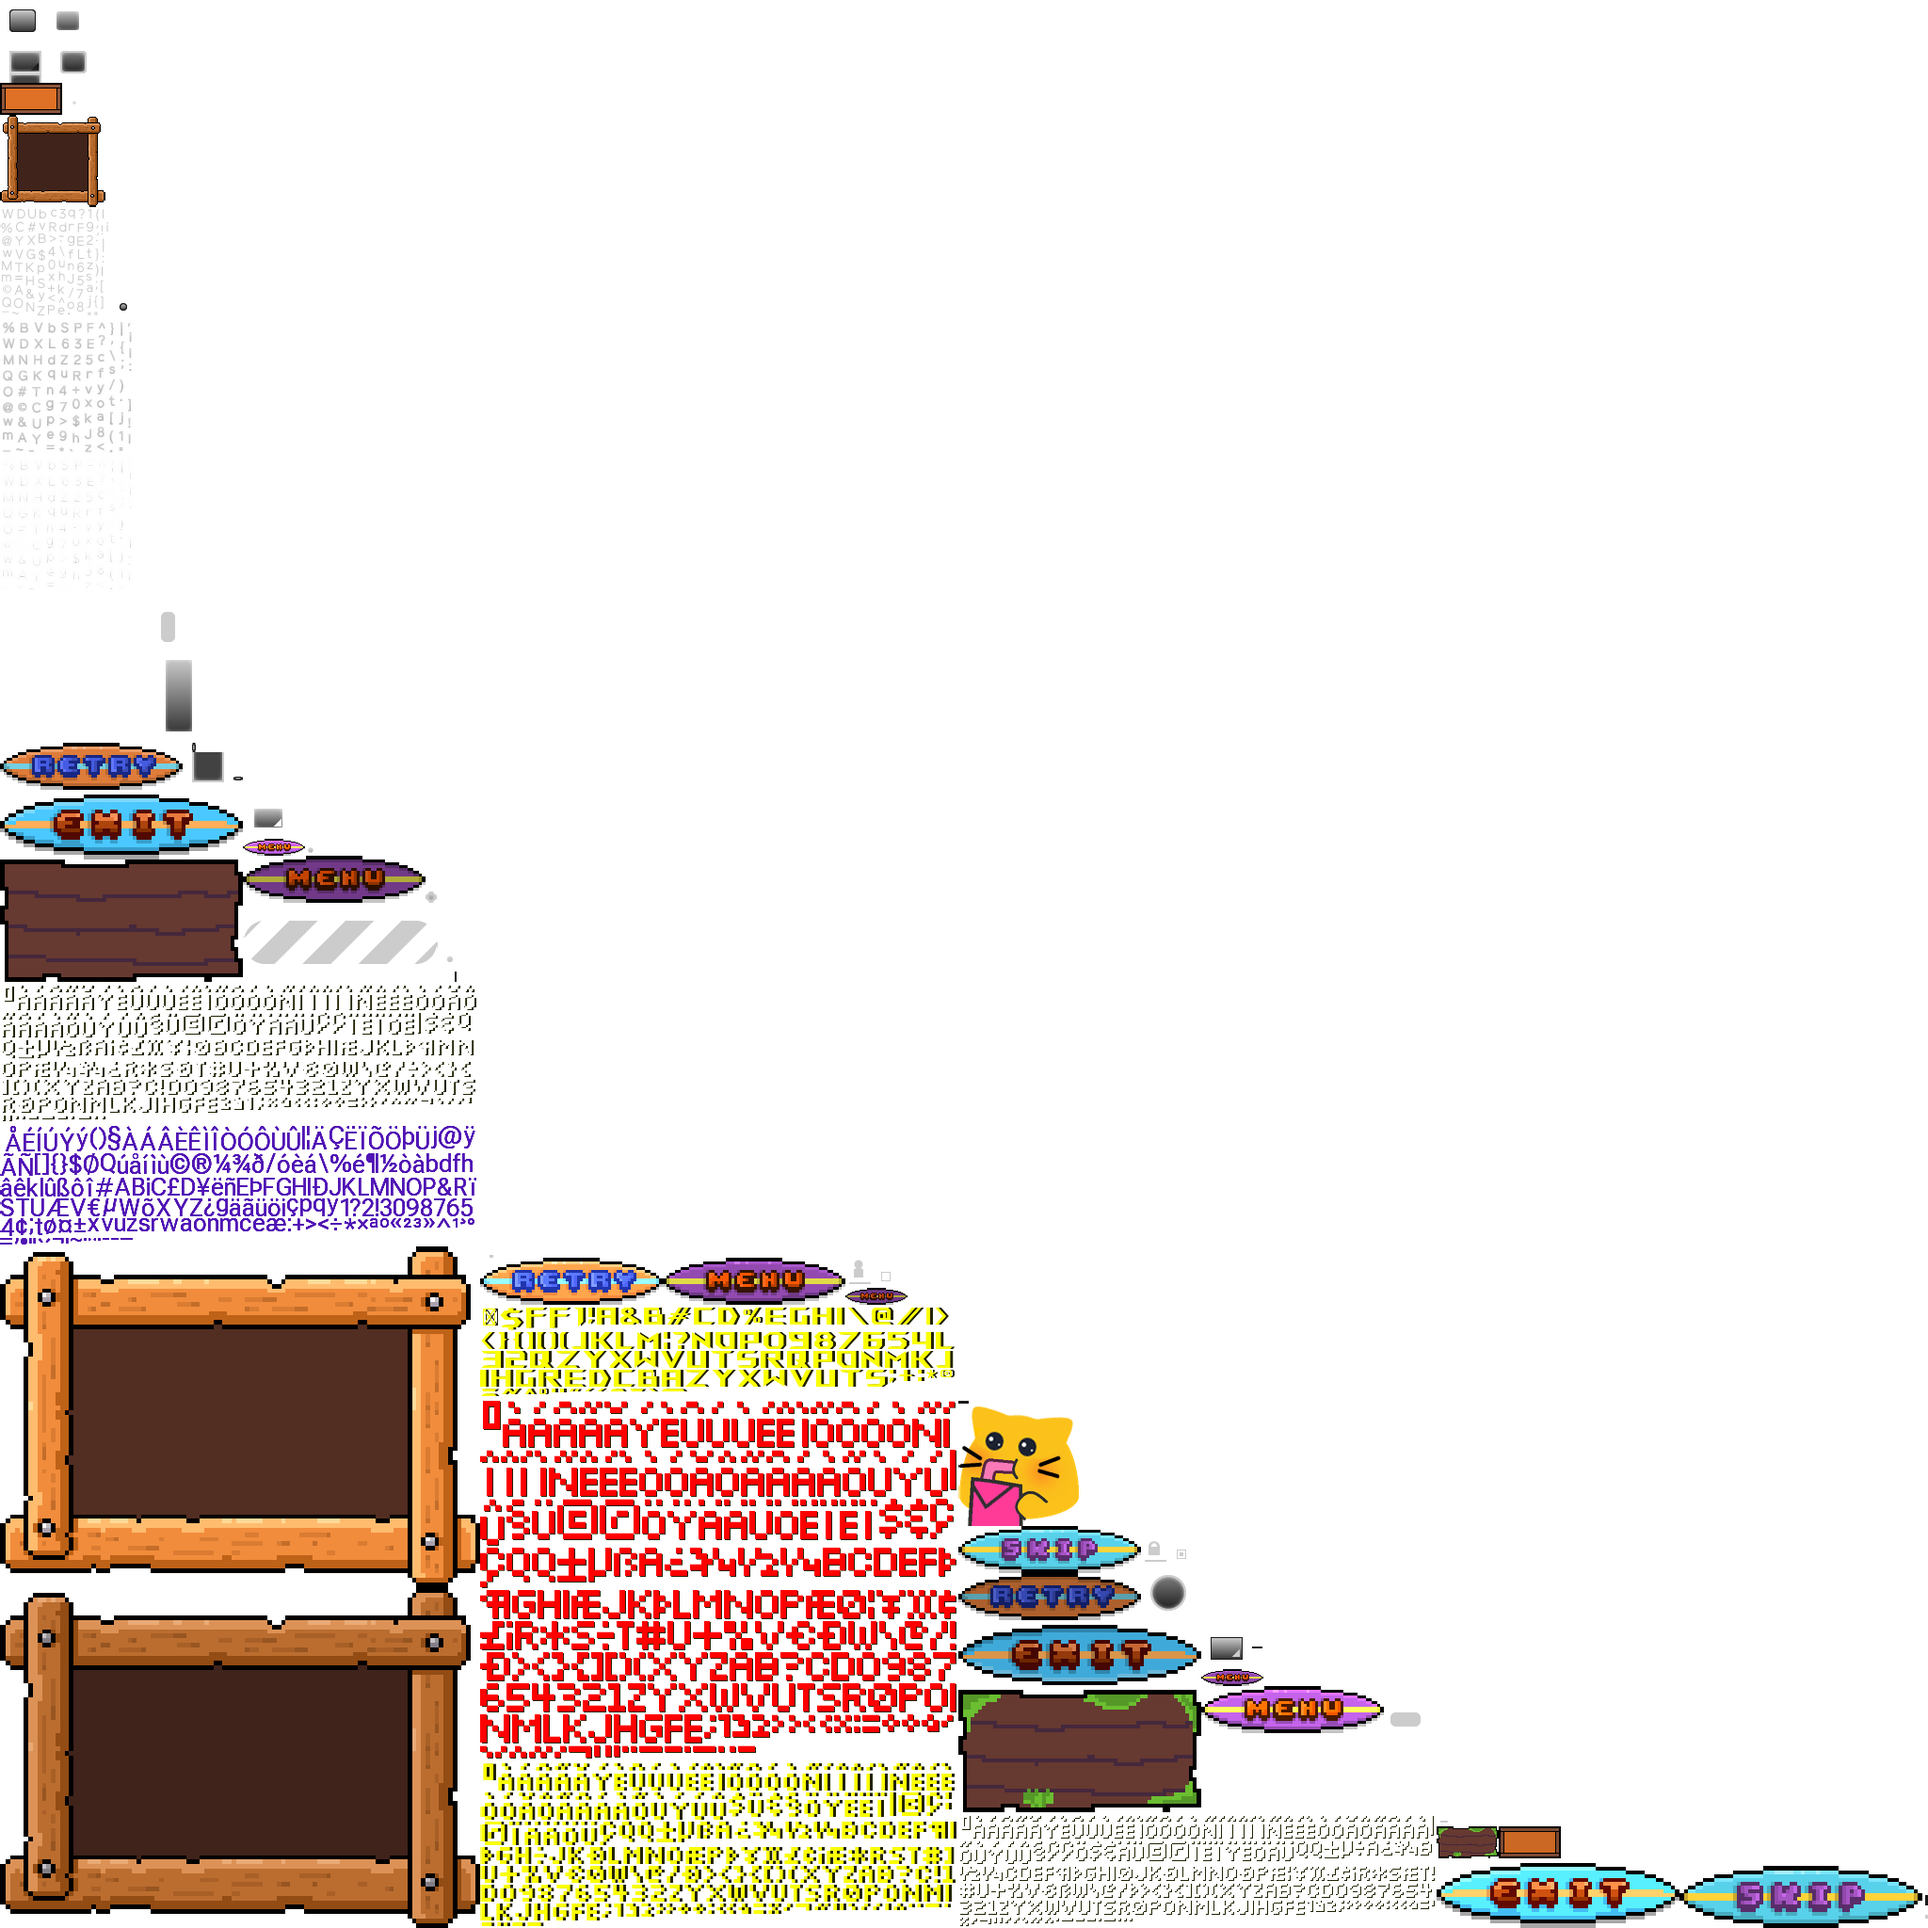
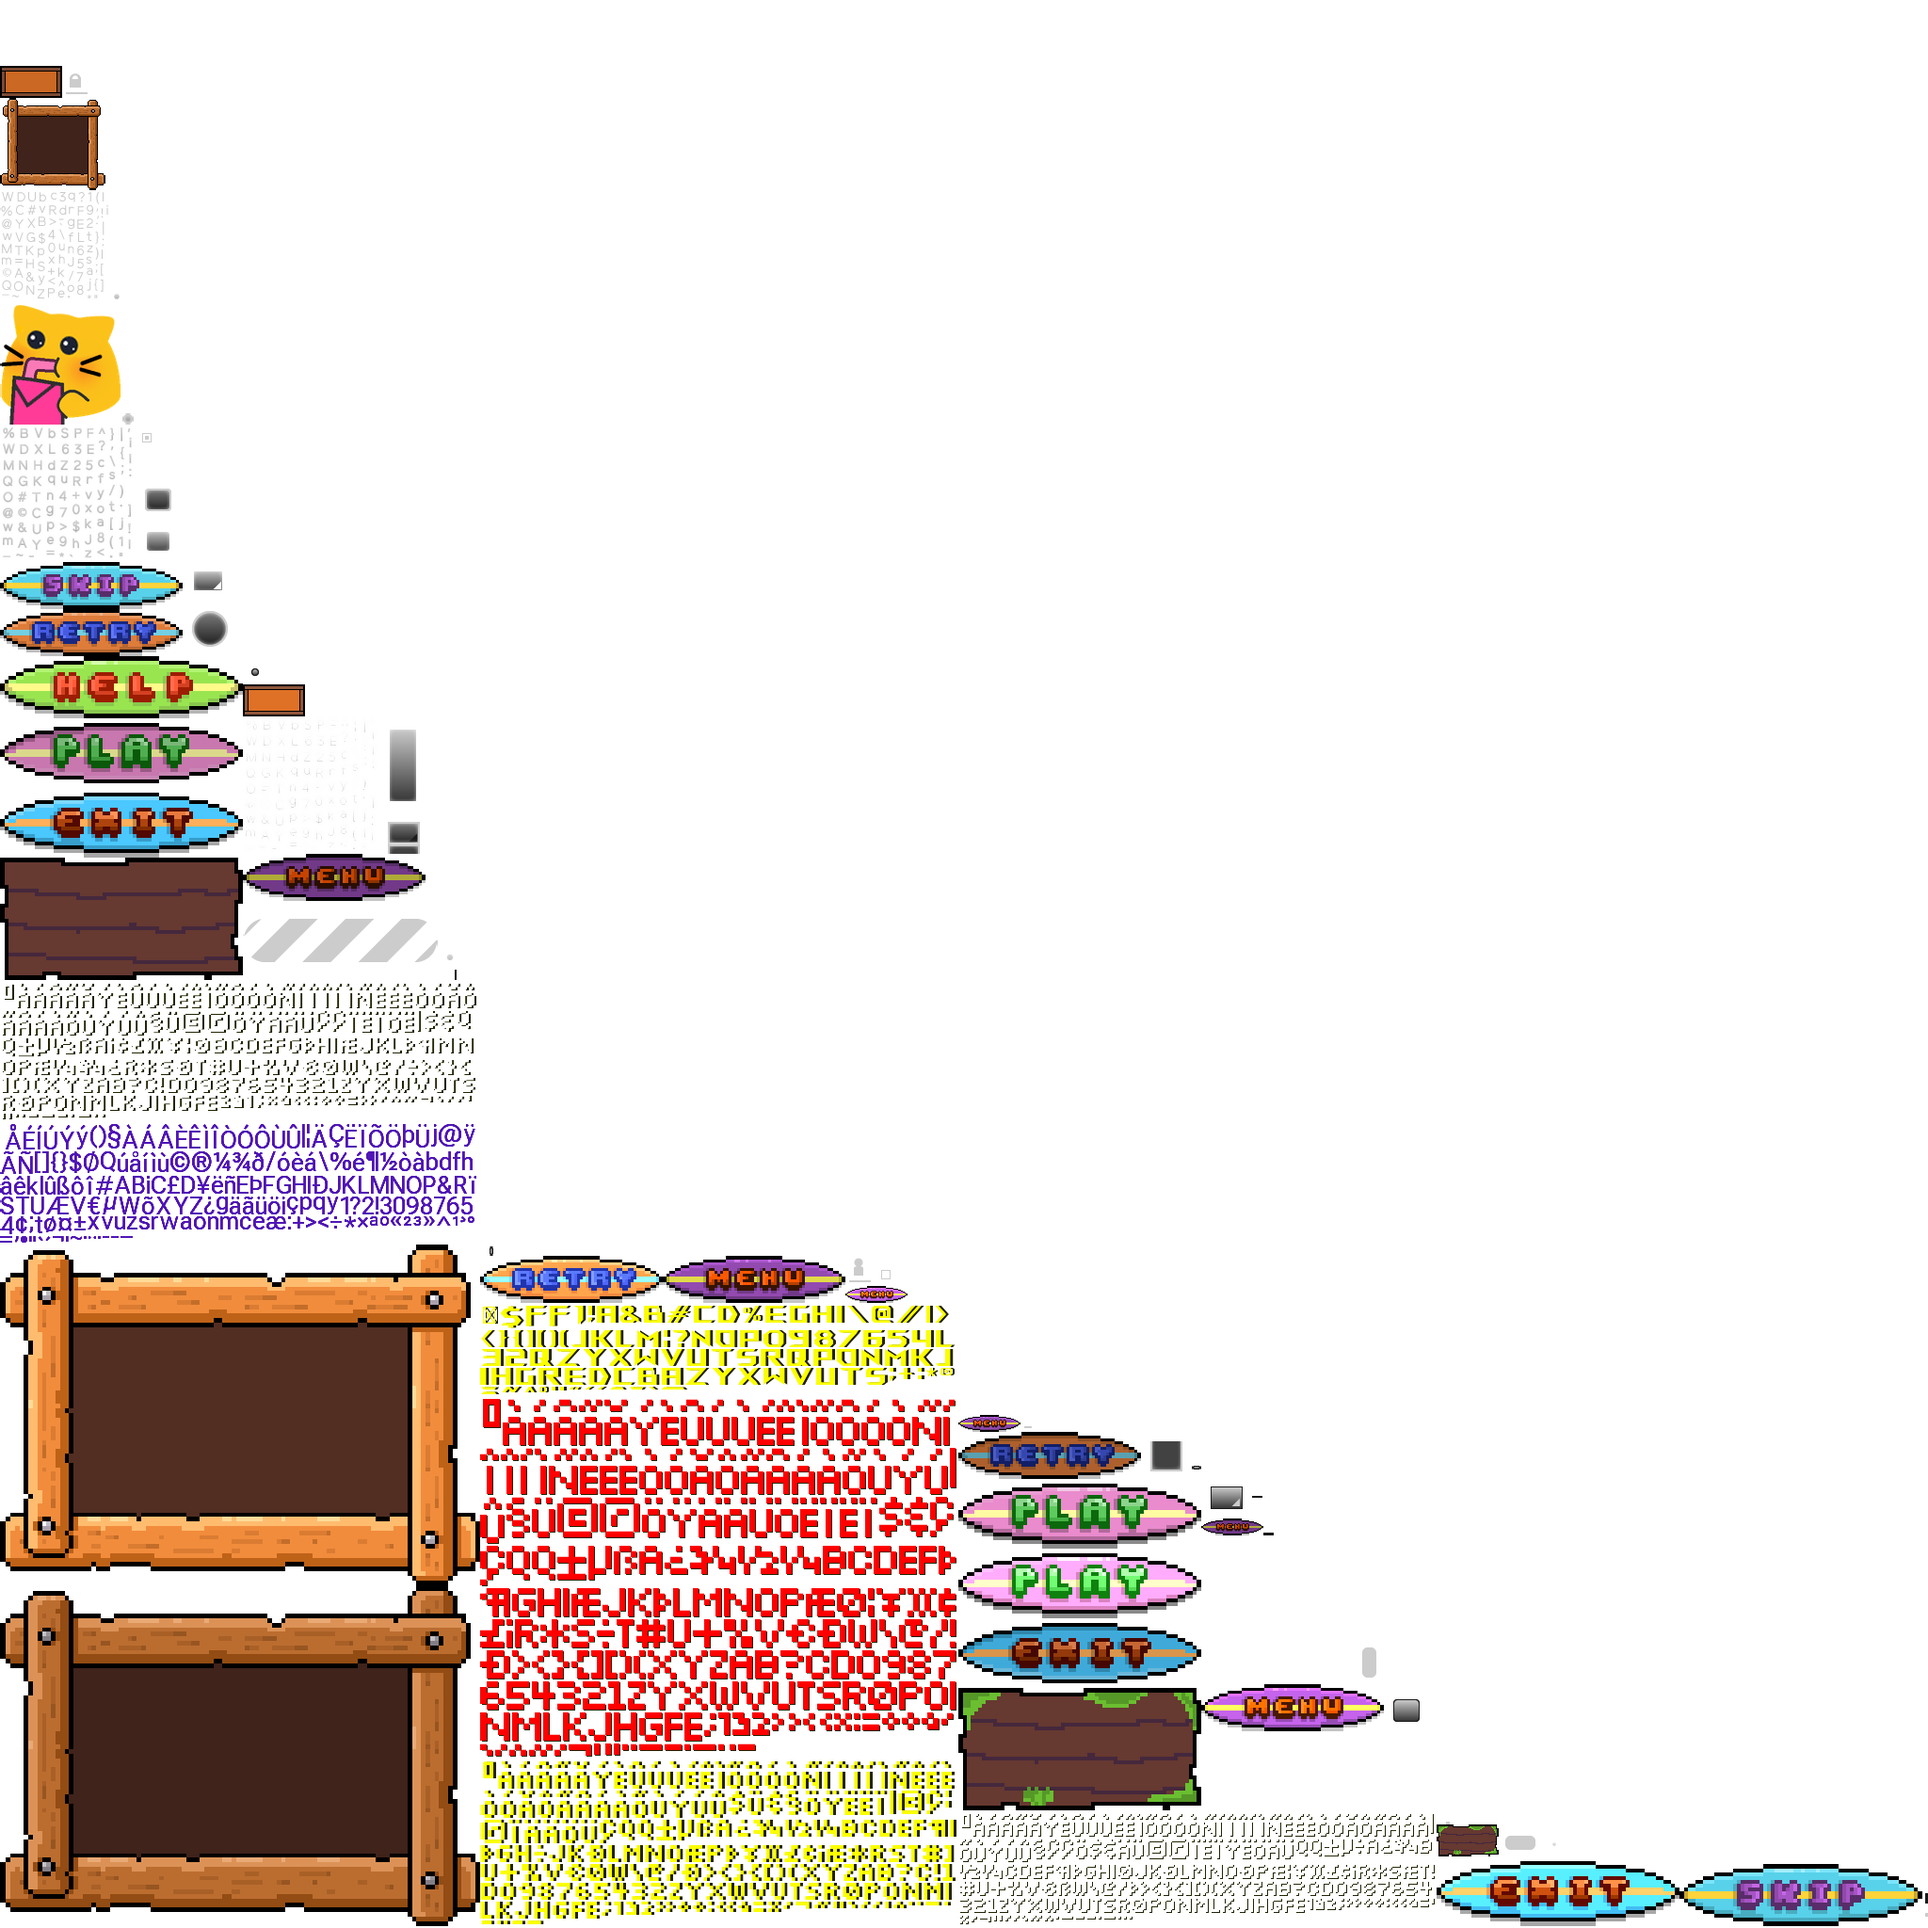
Fixade main menu screen

Changed region(s): [[0.0, 0.0, 1.0, 1.0]]

diff --git a/core/src/main/java/com/beachsurvivors/view/MainMenuScreen.java b/core/src/main/java/com/beachsurvivors/view/MainMenuScreen.java
@@ -10,15 +10,13 @@ import com.badlogic.gdx.graphics.Pixmap;
 import com.badlogic.gdx.graphics.Texture;
 import com.badlogic.gdx.graphics.g2d.SpriteBatch;
 import com.badlogic.gdx.graphics.g2d.TextureRegion;
+import com.badlogic.gdx.scenes.scene2d.Actor;
 import com.badlogic.gdx.scenes.scene2d.Stage;
-import com.badlogic.gdx.scenes.scene2d.ui.Button;
-import com.badlogic.gdx.scenes.scene2d.ui.ImageButton;
-import com.badlogic.gdx.scenes.scene2d.utils.Drawable;
-import com.badlogic.gdx.scenes.scene2d.utils.TextureRegionDrawable;
+import com.badlogic.gdx.scenes.scene2d.ui.*;
+import com.badlogic.gdx.scenes.scene2d.utils.*;
 import com.badlogic.gdx.scenes.scene2d.InputEvent;
 import com.badlogic.gdx.scenes.scene2d.Stage;
 import com.badlogic.gdx.scenes.scene2d.ui.ImageButton;
-import com.badlogic.gdx.scenes.scene2d.utils.ClickListener;
 import com.badlogic.gdx.scenes.scene2d.utils.TextureRegionDrawable;
 import com.badlogic.gdx.utils.Scaling;
 import com.badlogic.gdx.utils.ScreenUtils;
@@ -36,91 +34,78 @@ public class MainMenuScreen implements Screen {
     Texture backgroundTexture;
     Texture logoTexture;
 
-    Texture playButtonTexture;
-    Texture playButtonHoverTexture;
-    Texture playButtonPressedTexture;
-
-    Texture exitButtonTexture;
-    Texture exitButtonHoverTexture;
-    Texture exitButtonPressedTexture;
-
     SpriteBatch spriteBatch;
+    
+    private Skin skin;
 
-    // TODO: Ändra via Skin Composer med knapparna
-    // PLAY-KNAPP
-    private TextureRegionDrawable playDrawable;
-    private TextureRegionDrawable playHoverDrawable;
-    private TextureRegionDrawable playPressedDrawable;
-
+    private Table table;
     private ImageButton playButton;
-    private ImageButton.ImageButtonStyle playButtonStyle;
-
-    // EXIT-KNAPP
-    private TextureRegionDrawable exitDrawable;
-    private TextureRegionDrawable exitHoverDrawable;
-    private TextureRegionDrawable exitPressedDrawable;
-
+    private ImageButton helpButton;
     private ImageButton exitButton;
-    private ImageButton.ImageButtonStyle exitButtonStyle;
 
     ScreenViewport viewport;
+    FitViewport fitViewport;
 
     public MainMenuScreen(Main main) {
         this.main = main;
-
-        backgroundTexture = AssetLoader.get().manager.get("assets/main_menu/menu_background.jpeg");
-        logoTexture = AssetLoader.get().manager.get("assets/main_menu/logo_skiss_1.png");
 
         playSound = AssetLoader.get().manager.get("assets/main_menu/sound/holiday.wav");
         mainTheme = AssetLoader.get().manager.get("assets/sounds/beach.mp3");
         mainTheme.play();
         mainTheme.setVolume(0.5f);
         mainTheme.setLooping(true);
-        // PLAY
-        playButtonTexture = AssetLoader.get().manager.get("assets/main_menu/buttons/play_button_2_scaled.png");
-        playButtonHoverTexture = AssetLoader.get().manager.get("assets/main_menu/buttons/play_button_2_hover_scaled.png");
-        playButtonPressedTexture = AssetLoader.get().manager.get("assets/main_menu/buttons/play_button_2_pressed_scaled.png");
 
-        playDrawable = new TextureRegionDrawable(playButtonTexture);
-        playHoverDrawable = new TextureRegionDrawable(playButtonHoverTexture);
-        playPressedDrawable = new TextureRegionDrawable(playButtonPressedTexture);
+        backgroundTexture = AssetLoader.get().manager.get("assets/main_menu/menu_background.jpeg");
+        Image background = new Image(new TextureRegionDrawable(new TextureRegion(backgroundTexture)));
+        logoTexture = AssetLoader.get().manager.get("assets/main_menu/logo_skiss_1.png");
+        Image logo = new Image(new TextureRegionDrawable(new TextureRegion(logoTexture)));
+        logo.setScaling(Scaling.fit);
 
-        playButtonStyle = new ImageButton.ImageButtonStyle();
-        playButtonStyle.up = playDrawable; // Standard
-        playButtonStyle.over = playHoverDrawable; // Hover
+        skin = AssetLoader.get().manager.get("game_over_screen/deathscreen_skin.json");
 
-        playButton = new ImageButton(playButtonStyle);
+        table = new Table();
+        table.setFillParent(true);
 
-        // EXIT
-        exitButtonTexture = new Texture("main_menu/buttons/exit_button_2_scaled.png");
-        exitButtonHoverTexture = new Texture("main_menu/buttons/exit_button_2_hover_scaled.png");
-        exitButtonPressedTexture = new Texture("main_menu/buttons/exit_button_2_pressed_scaled.png");
+        int width = 400;
+        int height = 120;
 
-        exitDrawable = new TextureRegionDrawable(exitButtonTexture);
-        exitHoverDrawable = new TextureRegionDrawable(exitButtonHoverTexture);
-        exitPressedDrawable = new TextureRegionDrawable(exitButtonPressedTexture);
+        playButton = new ImageButton(skin, "play");
+        playButton.getImageCell().size(width,height);
 
-        exitButtonStyle = new ImageButton.ImageButtonStyle();
-        exitButtonStyle.up = exitDrawable;
-        exitButtonStyle.over = exitHoverDrawable;
+        helpButton = new ImageButton(skin, "help");
+        helpButton.getImageCell().size(width,height);
 
-        exitButton = new ImageButton(exitButtonStyle);
+        exitButton = new ImageButton(skin, "exit");
+        exitButton.getImageCell().size(width,height);
 
         viewport = new ScreenViewport();
+        fitViewport = new FitViewport(main.getGameScreen().getScreenWidth(), main.getGameScreen().getScreenHeight());
 
         spriteBatch = new SpriteBatch();
-        stage = new Stage(viewport);
-        stage.addActor(playButton); // Lägg in knapparna i en array istället?
-        stage.addActor(exitButton);
+        stage = new Stage(fitViewport);
+
+        int bottomPad = 20;
+        table.add(logo).padBottom(60).padTop(100).height(400).width(800).row();
+        table.add(playButton).padBottom(bottomPad).row();
+        table.add(helpButton).padBottom(bottomPad).row();
+        table.add(exitButton).padBottom(bottomPad).row();
+
+        Stack stack = new Stack();
+        stack.setSize(1200,972);
+        stack.add(background);
+
+        stack.add(table);
+        stack.setPosition(0,0);
+        stack.setFillParent(true);
+        stage.addActor(stack);
 
         // EVENT LISTENERS
-        onPlayButtonPressed();
-        onExitButtonPressed();
+        addListeners();
     }
 
     @Override
     public void resize(int width, int height) {
-        viewport.update(width, height, true);
+        fitViewport.update(width, height, true);
     }
 
 
@@ -140,30 +125,7 @@ public class MainMenuScreen implements Screen {
     }
 
     public void draw(float delta) {
-        ScreenUtils.clear(Color.BLACK); // Good practice to always clear the screen every frame
-        viewport.apply();
-        spriteBatch.setProjectionMatrix(viewport.getCamera().combined);
-        spriteBatch.begin();
-        // Add lines to draw here
-
-        float worldWidth = viewport.getWorldWidth();
-        float worldHeight = viewport.getWorldHeight();
-        float logoWidth = logoTexture.getWidth()*4;
-        float logoHeight = logoTexture.getHeight()*4;
-
-        spriteBatch.draw(backgroundTexture, 0, 0, worldWidth, worldHeight);
-
-        stage.act(Gdx.graphics.getDeltaTime());
-        stage.draw();
-
-        spriteBatch.draw(logoTexture, ((worldWidth/2)-(logoWidth/2)), (worldHeight/2), logoWidth, logoHeight); // TODO: ändra så att värdena inte är hårdkodade
-        spriteBatch.end();
-
         stage.act(delta);
-
-        playButton.setPosition((worldWidth/2)-(playButton.getWidth()/2), worldHeight/3);
-        exitButton.setPosition((worldWidth/2)-(exitButton.getWidth()/2), worldHeight/6);
-
         stage.draw();
     }
     @Override
@@ -181,38 +143,28 @@ public class MainMenuScreen implements Screen {
 
     }
 
-    public void onPlayButtonPressed() {
-        playButton.addListener(new ClickListener() {
-            @Override
-            public boolean touchDown(InputEvent event, float x, float y, int pointer, int button) {
-                playButtonStyle.over = playPressedDrawable;
-                return true; // Viktigt! returnera true så att touchUp() aktiveras
-            }
+    public void addListeners() {
 
+        playButton.addListener(new ChangeListener() {
             @Override
-            public void touchUp(InputEvent event, float x, float y, int pointer, int button) {
-                playButtonStyle.up = playDrawable;
+            public void changed(ChangeEvent changeEvent, Actor actor) {
                 mainTheme.stop();
-               // playSound.play(0.1f);
-
                 startGameMusic();
                 main.switchScreen();
             }
         });
-    }
 
-    public void onExitButtonPressed() {
-        exitButton.addListener(new ClickListener() {
+        helpButton.addListener(new ChangeListener() {
             @Override
-            public boolean touchDown(InputEvent event, float x, float y, int pointer, int button) {
-                exitButtonStyle.over = exitPressedDrawable;
-                return true; // Viktigt! returnera true så att touchUp() aktiveras
+            public void changed(ChangeEvent changeEvent, Actor actor) {
+                mainTheme.stop();
+                main.goToHelpScreen();
             }
+        });
 
+        exitButton.addListener(new ChangeListener() {
             @Override
-            public void touchUp(InputEvent event, float x, float y, int pointer, int button) {
-                exitButtonStyle.up = exitDrawable;
-                playSound.play(1f);
+            public void changed(ChangeEvent changeEvent, Actor actor) {
                 Gdx.app.exit();
             }
         });

diff --git a/core/src/main/java/com/beachsurvivors/view/Main.java b/core/src/main/java/com/beachsurvivors/view/Main.java
@@ -12,13 +12,13 @@ public class Main extends Game {
 
     @Override
     public void create() {
+        gameScreen = new GameScreen(this);
         menuScreen = new MainMenuScreen(this);
         setScreen(loadingScreen);
         setScreen(menuScreen);
     }
 
     public void startGame() {
-        gameScreen = new GameScreen(this);
         setScreen(gameScreen);
     }
 
@@ -78,5 +78,8 @@ public class Main extends Game {
 
     public void setSoundOn(boolean isSoundOn) {
         this.isSoundOn = isSoundOn;
+    }
+    public GameScreen getGameScreen() {
+        return gameScreen;
     }
 }

diff --git a/core/src/main/java/com/beachsurvivors/view/DeathScreen.java b/core/src/main/java/com/beachsurvivors/view/DeathScreen.java
@@ -66,12 +66,11 @@ public class DeathScreen implements Screen {
         Stack stack = new Stack();
         stack.setSize(1200,972);
         stack.setPosition(gameScreen.getScreenWidth()/2f-stack.getWidth()/2,
-            gameScreen.getScreenHeight()/2f-stack.getHeight()/2 );
+            gameScreen.getScreenHeight()/2f-stack.getHeight()/2);
         stack.add(background);
         stack.add(rightTable);
         stack.add(leftTable);
         stage.addActor(stack);
-
 
         createActorsLeftTable();
         createActorsRightTable();

diff --git a/core/src/main/java/com/beachsurvivors/model/abilities/ChainLightning.java b/core/src/main/java/com/beachsurvivors/model/abilities/ChainLightning.java
@@ -135,6 +135,10 @@ public class ChainLightning extends Ability {
         sound.setVolume(soundId, 0.3f);
     }
 
+    public void increaseMaxJumps(int jumpIncrease) {
+        maxJumps += jumpIncrease;
+    }
+
     @Override
     public void use() {
 
